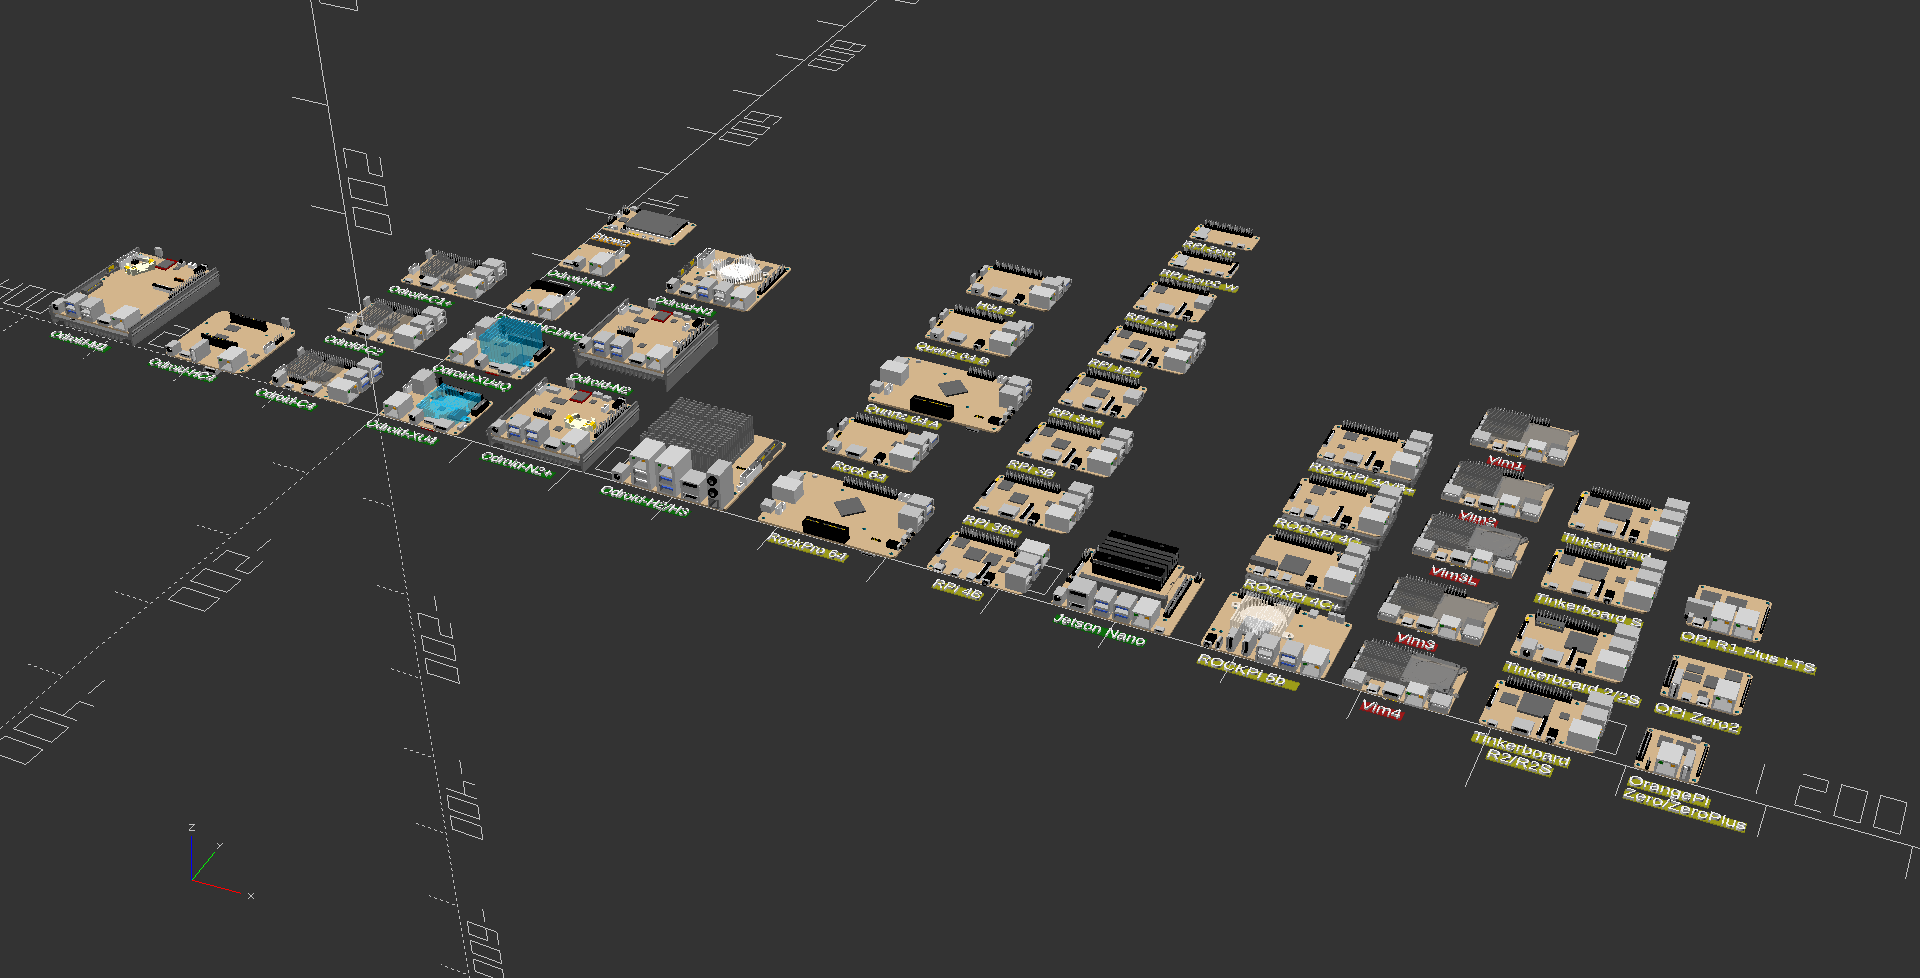
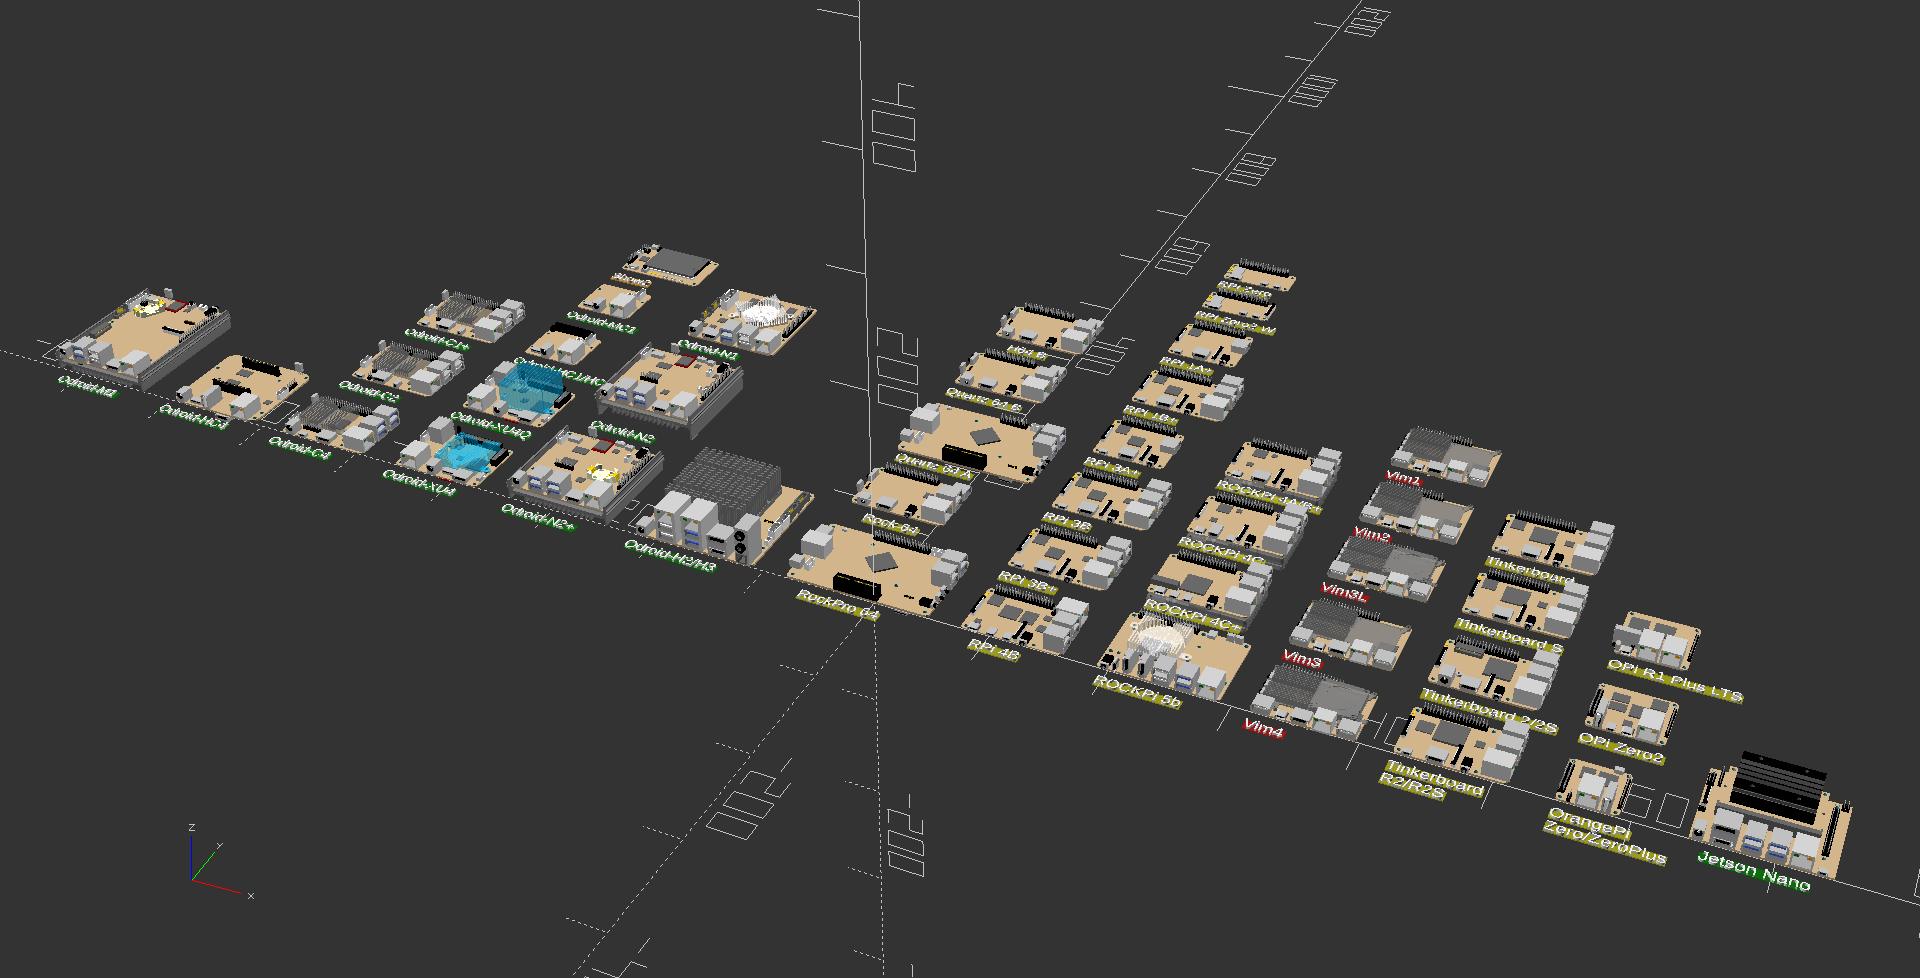
updated sbc_test_components.scad and added sbc_test_components.png, updated release info and other minor adjustments.

Changed region(s): [[0.0, 0.2147, 0.9688, 0.9202], [0.6875, 0.0, 0.7188, 0.0307], [0.375, 0.1227, 0.4062, 0.1534]]

diff --git a/README.md b/README.md
@@ -11,7 +11,7 @@ This project is a lightweight and dynamic framework for the generation of SBC an
 
 ## Using the Framework
 
-Any of the models can be called by passing the requested SBC model in the form of sbc("xu4"). 
+Any of the models can be called by passing the requested SBC model in the form of sbc("model"). 
 ```
 include <sbc_models.scad>
 sbc("rpi4b");
@@ -45,28 +45,34 @@ The last entry in the schema is for components. A component is anything that is 
 The rotation value does not rotate the component around the xy location. It is a reference to the direction that the component faces and whichever corner of the component is in the lower left after rotation, will assume the xy location specified for the component entry. This allows a uniform means to measure the placement of components regardless of their orientation on the PCB. The schema entry labeled component_side is the side of the PCB the component is to be placed on. So far we covered component_x, component_y, component_rotation and component_side. The last two entries are component_class and component_type. These entries together determine what component is placed. Each component class contains one or more component types. There are currently 17 component classes with corresponding component types.
 
 ## Component classes and types:
+
+![Image](sbc_test_components.png)
     
 ```
     memory  - "emmc","emmc_plug","sodimm_5.2","sodimm_9.2"
-    switch - slide_4x9
-    button - "momentary_6x6x9","momentary_6x6x4","momentary_6x6x4_90","momentary_4x2x1"
-    plug - "pwr2.5_5x7.5","pwr5.5_7.5x11.5","pwr5.5_10x10","rtc_micro","audio_micro","uart_micro","molex_4x1","small_encl_satapwr"
-    usb2 - "single_vert_a","double_stacked_a","micro"
-    usb3 - double_stacked_a
-    network - rj45_single
-    video - "hdmi_a","dp-hdmi_a","mipi_csi","mipi_dsi"
-    fan - "micro","encl_pmw","encl_pmw_h"
-    gpio - "encl_header_30","encl_header_12","header_40","header_20"
-    ic - "ic_2.8x2.8","ic_3x3","ic_3.7x3.7","ic_4x4","ic_4.7x4.7","ic_5x5","ic_5.75x5.75","ic_6x6","ic_6.4x6.4","ic_6.75x6.75",
-         "ic_7x7","ic_4.3x5.1","ic_5.4x5.3","ic_6.7x8.4","ic_9x9","ic_11x8","ic_13x8","ic_13x9","ic_16x10"
-    audio - "out-in-spdif","jack_3.5"
-    storage - "sdcard","sdcard_i","sata_header","sata_power_vrec","sata_encl_power","sata_encl_header","m.2_header","m.2_stud"
-    combo - "rj45-usb2_double","rj45-usb3_double"
-    jumper - "header_2x1","header_3x2","header_5x1","header_6x1","header_7x1"
-    misc - "ir_1","led_3x1.5","lcd_2.2","bat_hold_1"
-    heatsink - "hc4_oem","c4_oem","c2_oem","c1+_oem","xu4_oem","n1_oem","xu4q_oem","n2_oem","n2+_oem","m1_oem","h2_oem"
-    pcie - "x4"
-    jst_ph - number of pins from 2-16
+    switch -  "slide_4x9"
+    button -  "momentary_6x6x9","momentary_6x6x4","momentary_6x6x4_90","momentary_4x2x1","momentary_7x3x3_90"
+    plug -    "pwr2.5_5x7.5","pwr5.5_7.5x11.5","pwr5.5_10x10","rtc_micro","audio_micro","uart_micro","molex_4x1",
+              "small_encl_satapwr"
+    usb2 -    "micro","single_vertical_a","double_stacked_a","single_horizontal_a"
+    usb3 -    "double_stacked_a","single_horizontal_a",
+    network - "rj45_single",
+    video -   "hdmi_a","hdmi_a_vertical","dp-hdmi_a","mipi_csi","mipi_dsi","hdmi_micro","dp_mini","hdmi_a_vertical"
+    fan -     "micro","encl_pmw","encl_pmw_h"
+    gpio -    "encl_header_12","encl_header_30","header_20","header_26","header_40"
+    ic -      "ic_2.8x2.8","ic_3x3","ic_3.7x3.7","ic_4x4","ic_4.7x4.7","ic_5x5","ic_5.75x5.75","ic_6x6","ic_6.4x6.4",
+              "ic_6.75x6.75","ic_7x7","ic_4.3x5.1","ic_5.4x5.3","ic_6.7x8.4","ic_9x9","ic_11x8","ic_13x8",
+              "ic_13x9","ic_16x10"
+    audio -   "out-in-spdif","jack_3.5"
+    storage - "sdcard","sdcard_i","sata_header","sata_encl_header","m.2_header","m.2_stud","sata_encl_power",
+              "sata_power_vrec","microsdcard"
+    combo -   "rj45-usb2_double","rj45-usb3_double","double_stacked_usb3-usbc"
+    jumper -  "header_2x1","header_3x1","header_3x2","header_5x1","header_6x1","header_7x1"
+    misc -    "ir_1","bat_hold_1","led_3x1.5","lcd_2.2"
+    heatsink -"hc4_oem","c4_oem","c2_oem","c1+_oem","xu4_oem","n1_oem","xu4q_oem","n2_oem","n2+_oem","m1_oem","h2_oem",
+               "khadas_oem","khadas_fan_oem","radxa_oem"
+    pcie -     "x4"
+    jst_ph -   number of pins from 2-16
 ```
 Simply put, new SBC are defined in sbc_model.cfg and new components are added to sbc_library.scad. To add an SBC, modify sbc_models.cfg by creating or copying of an existing SBC entry. Update the relative SBC data and components for the new SBC. When a component type needs to be added, simply add code that draws that component type in the class module the component belongs to, located in sbc_library.scad. There is no checking or validation of any kind so in reality any class can contain any component type. The names are simply the ones I choose to impose some structure that makes sense for my use of the library moving forward.
 
